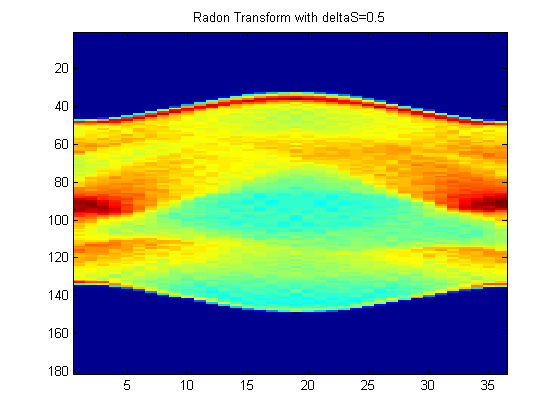
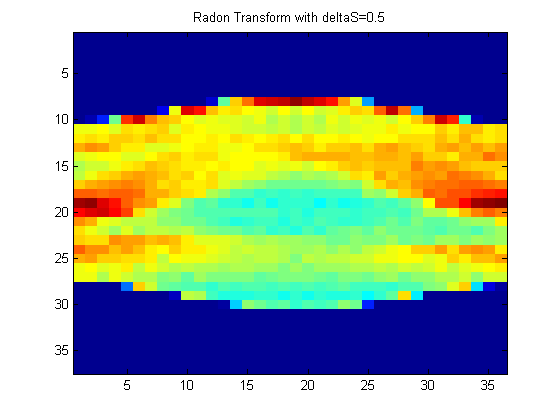
Reports for Q1 and Q3 done

diff --git a/1/1/report/myMainScript.html b/1/1/report/myMainScript.html
@@ -65,16 +65,18 @@ table td { padding:7px 5px; text-align:left; vertical-align:top; border:1px soli
 
 
 
-  </style></head><body><div class="content"><h2>Contents</h2><div><ul><li><a href="#2">Radon Transforms for different deltaS</a></li><li><a href="#3">1D function plots for the Radon-transform image values</a></li><li><a href="#4">Radon transform using large deltaT</a></li><li><a href="#5">Very large and very small deltaS</a></li></ul></div><pre class="codeinput">clc;
-clear;
-close <span class="string">all</span>
+  </style></head><body><div class="content">
+  <h1>Assignment 1 - Q1 </h1>
+  <h2>Contents</h2><div><ul><li><a href="#2">Radon Transforms for different deltaS</a></li><li><a href="#3">1D function plots for the Radon-transform image values</a></li><li><a href="#4">Radon transform using large deltaT</a></li><li><a href="#5">Very large and very small deltaS</a></li></ul></div>
 
-inputImg=phantom(128);
-figure
-imshow(inputImg)
 </pre>
 <h3> Original Phantom Image </h3>
-<img vspace="5" hspace="5" src="myMainScript_01.png" alt=""> <h2>Radon Transforms for different deltaS<a name="2"></a></h2><pre class="codeinput">tic
+
+<img vspace="5" hspace="5" src="myMainScript_01.png" alt=""> 
+<p style="font-size: 16px"> All the explanations are provided in parts inside this report </p>
+<h2>Radon Transforms for different deltaS<a name="2"></a></h2>
+
+<pre class="codeinput">tic
 deltaS=0.5;
 R = myRadonTransform(inputImg,deltaS,1); <span class="comment">% 1 for high resolution, i.e. deltaT = 1</span>
 figure
@@ -99,16 +101,16 @@ title(<span class="string">'Radon Transform with deltaS=3'</span>)
 toc
 </pre>
 
-<p style="font-size: 13px"> We can see the that the computation time decreases with increasing deltaS <br>
+<p style="font-size: 16px"> We can see the that the computation time decreases with increasing deltaS <br>
  but then the blurring increases. Observing the tradeoff between the both, <br>
  an optimal choice for computing the radon transform would be deltaS=1 <br>
  which is both smooth and fast enough.</p>
  
 <h4> Time elapsed for the 3 cases</h4>
-<pre class="codeoutput">Elapsed time is 15.834224 seconds.
-Elapsed time is 15.039766 seconds.
+<p style="font-size: 14px">Elapsed time is 15.834224 seconds. <br>
+Elapsed time is 15.039766 seconds. <br>
 Elapsed time is 14.425837 seconds.
-</pre><img vspace="5" hspace="5" src="myMainScript_02.png" alt=""> <img vspace="5" hspace="5" src="myMainScript_03.png" alt=""> <img vspace="5" hspace="5" src="myMainScript_04.png" alt=""> <h2>1D function plots for the Radon-transform image values<a name="3"></a></h2><pre class="codeinput">deltaS=0.5;
+</p><img vspace="5" hspace="5" src="myMainScript_02.png" alt=""> <img vspace="5" hspace="5" src="myMainScript_03.png" alt=""> <img vspace="5" hspace="5" src="myMainScript_04.png" alt=""> <h2>1D function plots for the Radon-transform image values<a name="3"></a></h2><pre class="codeinput">deltaS=0.5;
 figure
 theta=0;
 t=-90:5:90;
@@ -197,7 +199,7 @@ xlabel(<span class="string">'t(-90 to 90 in steps of 5)'</span>)
 ylabel(<span class="string">'Radon Transform Value'</span>)
 </pre>
 
-<p style="font-size: 13px"> We can see that the plots with theta=0 are less smoother than theta=90 <br>
+<p style="font-size: 15px"> We can see that the plots with theta=0 are less smoother than theta=90 <br>
  and get sharper with increasing deltaS. The reason for this can be given <br>
  as the image has relatively shorter dark patches in X direction while it <br>
  is fairly long in Y direction, which corresponds to theta=90.</p>
@@ -209,12 +211,12 @@ imagesc(R);
 title(<span class="string">'Radon Transform with deltaS=0.5 but large deltaT'</span>)
 </pre>
 
-<p style="font-size: 13px"> We see that deltaT is a important factor for getting a quality radon <br>
+<p style="font-size: 15px"> We see that deltaT is a important factor for getting a quality radon <br>
  transform. Also, using a large deltaTheta causes blurring in the blue <br>
  part of the radon transform. So, the optimum value for deltaTheta is 1 <br>
  and that for deltaT is 1.</p>
 
-<img vspace="5" hspace="5" src="myMainScript_06.png" alt=""> <h2>Very large and very small deltaS<a name="5"></a></h2><p style="font-size: 13px">If deltaS is very low, we make much extra efforts but don't gain much information. But if deltaS is very large, <br>
+<img vspace="5" hspace="5" src="myMainScript_06.png" alt=""> <h2>Very large and very small deltaS<a name="5"></a></h2><p style="font-size: 15px">If deltaS is very low, we make much extra efforts but don't gain much information. But if deltaS is very large, <br>
 we lose lot of information in in between the iterations and hence the result looks highly undersampled. <br> <br> <br></p><p class="footer"><br><a href="http://www.mathworks.com/products/matlab/">Published with MATLAB&reg; R2013a</a><br></p></div><!--
 ##### SOURCE BEGIN #####
 clc;

diff --git a/1/3/report/myMainScript.html b/1/3/report/myMainScript.html
@@ -69,7 +69,7 @@ table td { padding:7px 5px; text-align:left; vertical-align:top; border:1px soli
   <body> 
   <div class="content">
   <h1>Assignment 1 - Q3 </h1>
-  <h2>Contents</h2><div><ul><li><a href="#2">CT Chest Data</a></li><li><a href="#3">Phantom Data</a></li><li><a href="#4">CT_Chest MAT</a></li><li><a href="#5">Phantom MAT</a></li><li><a href="#6">Explanation</a></li></ul></div><h2>CT Chest Data<a name="2"></a></h2><pre class="codeinput">chest_data = load(<span class="string">'../data/CT_Chest.mat'</span>);
+  <h2>Contents</h2><div><ul><li><a href="#2">CT Chest Data</a></li><li><a href="#3">Phantom Data</a></li><li><a href="#4">CT_Chest MAT</a></li><li><a href="#5">Phantom MAT</a></li><li><a href="#6" style="font-size: 16px">Explanation</a></li></ul></div><h2>CT Chest Data<a name="2"></a></h2><pre class="codeinput">chest_data = load(<span class="string">'../data/CT_Chest.mat'</span>);
 imshow(chest_data.imageAC,[]);
 inputImage_1 = mat2gray(chest_data.imageAC);
 </pre><h2>Phantom Data<a name="3"></a></h2><pre class="codeinput">phantom_data = load(<span class="string">'../data/myPhantom.mat'</span>);
@@ -129,7 +129,17 @@ title(<span class="string">'Backproj Image with min RRMSE | Phantom'</span>)
 <h2>minIndex = 18 for phantom image</h2>
 <h3> RRMSE plot and backProjection image for minimum error </h3>
 
-</pre><img vspace="5" hspace="5" src="myMainScript_03.png" alt=""> <p class="footer"><br><a href="http://www.mathworks.com/products/matlab/">Published with MATLAB&reg; R2013a</a><br></p></div><!--
+</pre><img vspace="5" hspace="5" src="myMainScript_03.png" alt="">
+
+<h2>Explanation<a name="6"></a></h2>
+<p style="font-size: 16px"> The given question mention that the CT-scan data is taken only in a range of 150 degrees. <br>
+So, the minimum error will occur in the direction/theta with the maximum significant data. <br>
+In the cases of Chest data and Phantom data, these occur at theta = 8 and theta = 18 degrees respectively. <br>
+This theta is completely determined by the direction having the maximum possible representation of the image, since <br>
+the radon transform is similar in its kind to the Fourier transform.
+
+
+<p class="footer"><br><a href="http://www.mathworks.com/products/matlab/">Published with MATLAB&reg; R2013a</a><br></p></div><!--
 ##### SOURCE BEGIN #####
 clc;
 clear all;

diff --git a/1/1/code/myMainScript.m b/1/1/code/myMainScript.m
@@ -9,7 +9,7 @@ imshow(inputImg)
 %% Radon Transforms for different deltaS 
 tic
 deltaS=0.5;
-R = myRadonTransform(inputImg,deltaS,1); % 1 for high resolution, i.e. deltaT = 1
+R = myRadonTransform(inputImg,deltaS,1); % 1 for high resolution, i.e. deltaT = 5
 figure
 imagesc(R);
 title('Radon Transform with deltaS=0.5')
@@ -138,7 +138,7 @@ ylabel('Radon Transform Value')
 
 %% Radon transform using large deltaT
 deltaS=0.5;
-R = myRadonTransform(inputImg,deltaS,0); % 0 for low resolution, i.e. deltaT = 5
+R = myRadonTransform(inputImg,deltaS,0); % 0 for low resolution, i.e. deltaT = 10
 figure
 imagesc(R);
 title('Radon Transform with deltaS=0.5 but large deltaT')
@@ -147,7 +147,7 @@ title('Radon Transform with deltaS=0.5 but large deltaT')
 % We see that deltaT is a important factor for getting a quality radon
 % transform. Also, using a large deltaTheta causes blurring in the blue
 % part of the radon transform. So, the optimum value for deltaTheta is 1
-% and that for deltaT is 1.
+% and that for deltaT is 5.
 %
 
 %% Very large and very small deltaS

diff --git a/1/1/code/myRadonTransform.m b/1/1/code/myRadonTransform.m
@@ -1,9 +1,9 @@
 function [R1] = myRadonTransform(inputImg,deltaS, resolution)
     
     if(resolution==0)
-        deltaT = 5;
+        deltaT = 10;
     else
-        deltaT = 1;
+        deltaT = 5;
     end
     
     t = -90:deltaT:90;
